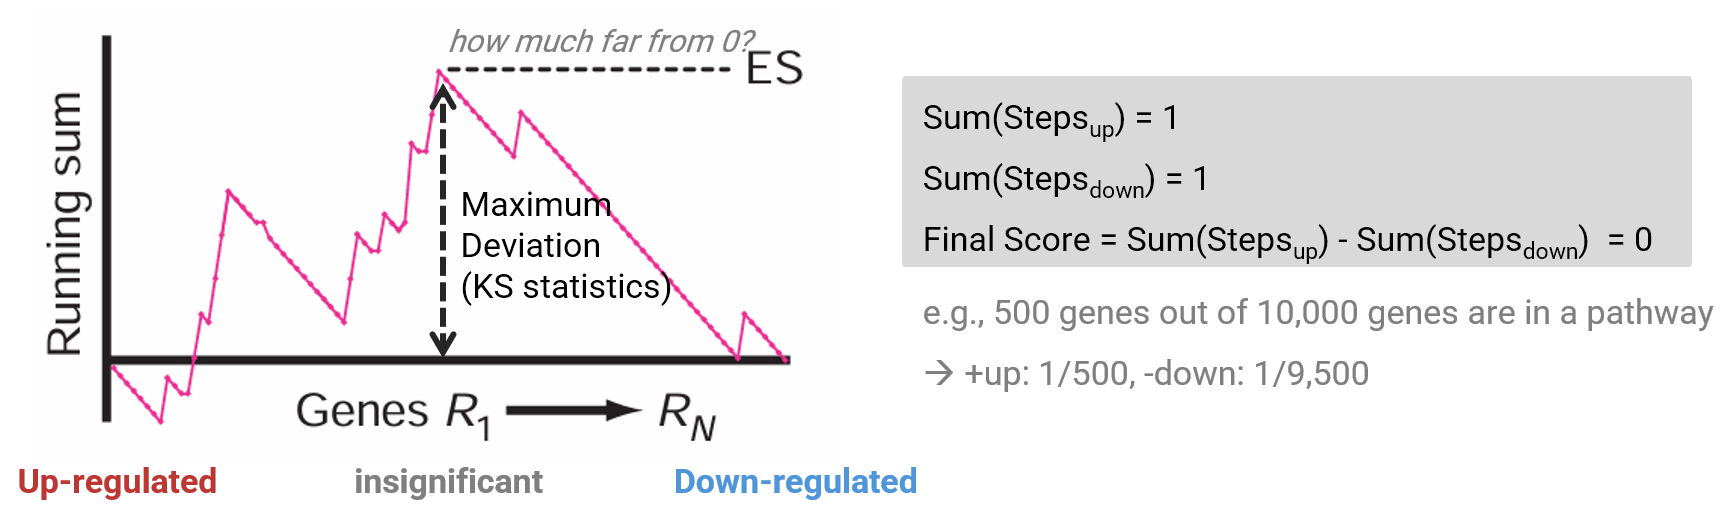
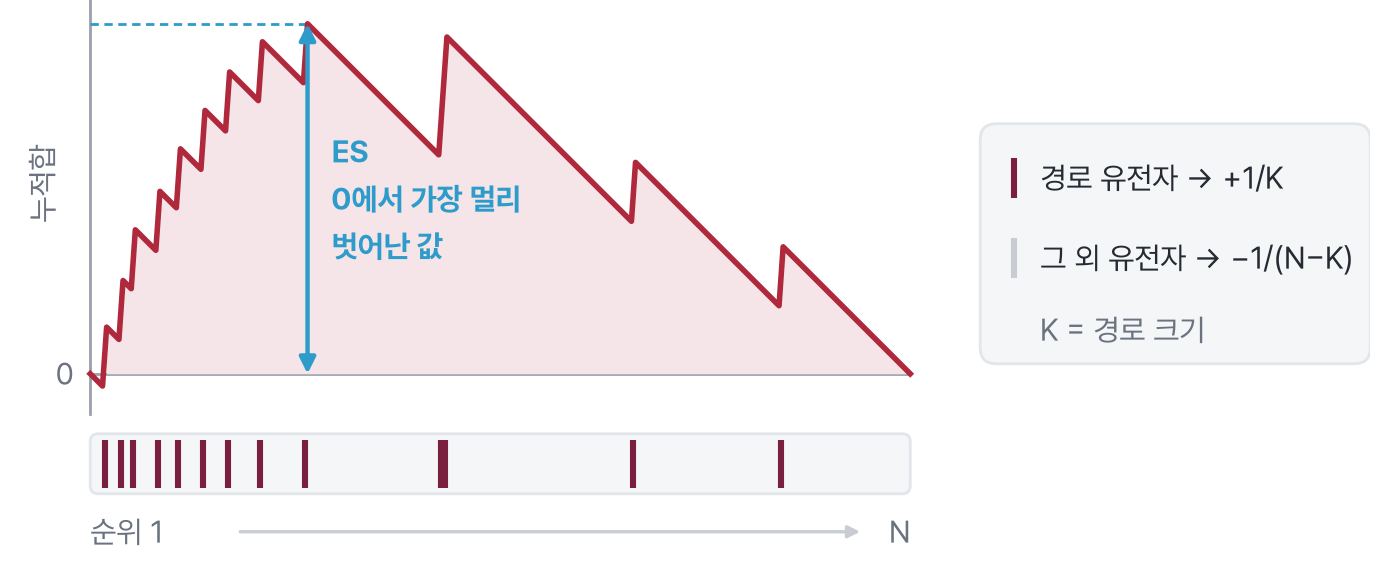
figures W10: redraw ES, ES patterns, permutation (KO/EN); add threshold figure; fix double-slash paths

diff --git a/scripts/figs/W10_permutation.py b/scripts/figs/W10_permutation.py
@@ -1,0 +1,56 @@
+# W10 §2-3) 순열 검정: 실제 라벨로 ES 계산 → 라벨을 1,000번 섞어 무작위 ES 1,000개(귀무분포) → 관측 ES 위치 확인
+# 원본: assets/img/part3/W10_permutation.png (외부 그림 조합) → 다시 그림. 히스토그램은 모의실험.
+from medfig import *
+
+L = {
+    "ko": dict(r1="① 실제 라벨로 계산", r2="② 라벨을 1,000번 섞어 계산", obs="관측 ES",
+               rnd="무작위 ES\n1,000개", null="귀무분포", x="ES", y="횟수"),
+    "en": dict(r1="① ES from the real labels", r2="② Shuffle labels 1,000 times", obs="observed ES",
+               rnd="1,000\nrandom ES", null="null distribution", x="ES", y="count"),
+}
+GA, GB = mix(TEXT2, 0.8), mix(TEXT2, 0.22)        # 시료 그룹 A / B (중립색)
+rng = np.random.default_rng(4)
+null = rng.normal(0, 1, 1000)                     # 모의실험: 무작위 ES 1,000개
+OBS = 3.0
+
+
+def samples(ax, x, y, labs, s=0.27, g=0.05, z=3):
+    for i, l in enumerate(labs):
+        c = GA if l == "A" else GB
+        box(ax, x + i * (s + g), y, s, s, fc=c, ec="white", lw=1, r=0.04, z=z)
+        ax.text(x + i * (s + g) + s / 2, y + s / 2, l, ha="center", va="center", fontsize=11,
+                fontweight="bold", color=on(c), zorder=z + 1)
+
+
+def draw(t):
+    fig, ax = new(6.9, 3.1)
+    # ① 실제 라벨
+    label(ax, 0.05, 2.9, t["r1"], fs=12, w="bold", ha="left")
+    samples(ax, 0.1, 2.3, list("AAABBB"))
+    arrow(ax, 2.1, 2.435, 2.45, 2.435, color="#9AA1AB", lw=1.4, ms=10)
+    pill(ax, 2.5, 2.435, t["obs"], fc=ACCENT, tc=ON_ACCENT, fs=11.5, h=0.34, ha="left")
+    # ② 섞은 라벨 (겹친 카드 3장)
+    label(ax, 0.05, 1.62, t["r2"], fs=12, w="bold", ha="left")
+    for k, off in enumerate([0.24, 0.12, 0.0]):
+        labs = list(rng.permutation(list("AAABBB")))
+        box(ax, 0.04 + off, 0.5 + off, 2.0, 0.42, fc="white", ec=LINE, r=0.06, z=3 + 3 * k)
+        samples(ax, 0.1 + off, 0.575 + off, labs, z=4 + 3 * k)
+    arrow(ax, 2.38, 0.85, 2.73, 0.85, color="#9AA1AB", lw=1.4, ms=10)
+    label(ax, 2.8, 0.85, t["rnd"], fs=11.5, ha="left", linespacing=1.3)
+
+    # 귀무분포 히스토그램
+    h = fig.add_axes([3.95 / 6.9, 0.55 / 3.1, 2.6 / 6.9, 2.2 / 3.1])
+    n, _, _ = h.hist(null, bins=np.linspace(-3.6, 3.6, 25), color=mix(TEXT2, 0.35), edgecolor="white", lw=0.6)
+    h.set_xlim(-3.8, 3.9); h.set_ylim(0, n.max() * 1.35)
+    h.set_xticks([0]); h.set_yticks([]); h.tick_params(labelsize=11)
+    h.set_xlabel(t["x"], fontsize=11); h.set_ylabel(t["y"], fontsize=11)
+    h.text(-3.6, n.max() * 1.22, t["null"], fontsize=11, color=TEXT2, va="center")
+    h.annotate("", xy=(OBS, 0), xytext=(OBS, n.max() * 0.62),
+               arrowprops=dict(arrowstyle="-|>", color=ACCENT_INK, lw=1.8))
+    h.text(OBS, n.max() * 0.68, t["obs"], ha="center", va="bottom", fontsize=11.5, fontweight="bold",
+           color=ACCENT_INK)
+    return fig
+
+
+for lang, suffix in [("ko", ""), ("en", "_en")]:
+    save(draw(L[lang]), f"../../assets/img/part3/W10_permutation{suffix}.png")

diff --git a/scripts/figs/W10_ES.py b/scripts/figs/W10_ES.py
@@ -1,0 +1,57 @@
+# W10 §2-2) ES 계산: 순위를 따라 걸으며 경로 유전자면 +1/K, 아니면 −1/(N−K); ES = 0에서 가장 멀리 벗어난 값
+# 원본: assets/img/part3/W10_ES.png (외부 그림 + 예시 숫자) → 다시 그림. 본문에 없는 예시 숫자(500/10,000)는 뺌. 설명용 가상 자료.
+from medfig import *
+
+L = {
+    "ko": dict(rs="누적합", r1="순위 1", rN="N", hit="경로 유전자 → +1/K", miss="그 외 유전자 → −1/(N−K)",
+               es="ES\n0에서 가장 멀리\n벗어난 값", k="K = 경로 크기"),
+    "en": dict(rs="running sum", r1="rank 1", rN="N", hit="pathway gene → +1/K", miss="other gene → −1/(N−K)",
+               es="ES\nlargest distance\nfrom zero", k="K = pathway size"),
+}
+GENE, CURVE = CAT[2], CAT[0]     # W10_threshold와 같은 색
+N = 200
+rng = np.random.default_rng(11)
+hits = np.sort(np.r_[[3, 7, 10, 16, 21, 27, 33, 41, 52], rng.choice(np.arange(70, 195), 4, replace=False)])
+K = len(hits)
+step = np.where(np.isin(np.arange(N), hits), 1 / K, -1 / (N - K))
+rs = np.r_[0, np.cumsum(step)]
+
+
+def draw(t):
+    fig, ax = new(6.9, 3.0)
+    X0, W = 0.5, 4.1
+    xs = X0 + W * np.arange(N + 1) / N
+    base, sc = 0.95, 1.75 / rs.max()
+    # 축과 곡선
+    ax.plot([X0, X0], [0.75, 2.85], color="#9AA1AB", lw=1)
+    ax.plot([X0, X0 + W], [base, base], color="#9AA1AB", lw=1)
+    ax.fill_between(xs, base, base + rs * sc, where=rs > 0, color=mix(CURVE, 0.12), lw=0, zorder=2)
+    ax.plot(xs, base + rs * sc, color=CURVE, lw=2, zorder=3)
+    label(ax, X0 - 0.24, base + 0.95, t["rs"], c=TEXT2, rotation=90)
+    label(ax, X0 - 0.08, base, "0", c=TEXT2, ha="right")
+    # 경로 유전자 띠
+    box(ax, X0, 0.35, W, 0.3, fc=FAINT, ec=LINE, r=0.04)
+    ax.vlines([X0 + W * (h + 0.5) / N for h in hits], 0.38, 0.62, color=GENE, lw=2.2, zorder=4)
+    label(ax, X0, 0.16, t["r1"], c=TEXT2, ha="left")
+    label(ax, X0 + W, 0.16, t["rN"], c=TEXT2, ha="right")
+    arrow(ax, X0 + 0.75, 0.16, X0 + W - 0.25, 0.16, color="#C9CDD3", lw=1.2, ms=9)
+    # ES
+    k = rs.argmax(); xk = xs[k]; yk = base + rs[k] * sc
+    ax.plot([X0, xk], [yk, yk], color=ACCENT_INK, lw=1, ls=(0, (3, 2)), zorder=2)
+    ax.annotate("", xy=(xk, yk), xytext=(xk, base), arrowprops=dict(arrowstyle="<|-|>", color=ACCENT_INK,
+                lw=1.6, shrinkA=0, shrinkB=0, mutation_scale=12), zorder=5)
+    label(ax, xk + 0.12, base + rs[k] * sc / 2, t["es"], fs=11, c=ACCENT_INK, ha="left", linespacing=1.3)
+    ax.texts[-1].set_fontweight("bold")
+    # 규칙
+    x1 = 4.95
+    box(ax, x1, 1.0, 1.95, 1.2, fc=FAINT, ec=LINE)
+    ax.vlines(x1 + 0.17, 1.83, 2.03, color=GENE, lw=2.2)
+    label(ax, x1 + 0.3, 1.93, t["hit"], ha="left")
+    ax.vlines(x1 + 0.17, 1.43, 1.63, color="#C9CDD3", lw=2.2)
+    label(ax, x1 + 0.3, 1.53, t["miss"], ha="left")
+    label(ax, x1 + 0.3, 1.17, t["k"], c=TEXT2, ha="left")
+    return fig
+
+
+for lang, suffix in [("ko", ""), ("en", "_en")]:
+    save(draw(L[lang]), f"../../assets/img/part3/W10_ES{suffix}.png")

diff --git a/scripts/figs/W10_pattern.py b/scripts/figs/W10_pattern.py
@@ -1,0 +1,45 @@
+# W10 §2-2) ES 패턴 세 가지: 발현 증가 경로(위쪽에서 정점) / 무작위(0 근처 진동) / 발현 감소 경로(아래쪽에서 정점)
+# 원본: assets/img/part3/W10_pattern.png (세로 3단 그래프) → 다시 그림. 설명용 가상 자료.
+from medfig import *
+
+L = {
+    "ko": dict(p=["① 발현이 증가한 경로", "② 무작위 (농축 없음)", "③ 발현이 감소한 경로"],
+               n=["위쪽에서 정점", "0 근처에서 진동", "아래쪽에서 정점"], r1="1", rN="N"),
+    "en": dict(p=["① Up-regulated", "② Random", "③ Down-regulated"],
+               n=["peak near the top", "fluctuates around zero", "peak near the bottom"], r1="1", rN="N"),
+}
+GENE = CAT[2]                                    # W10_threshold · W10_ES와 같은 색
+COL = [CAT[0], TEXT2, CAT[1]]                    # 상향 / 무작위 / 하향 (W10_threshold와 같은 색)
+N, K = 200, 20
+rng = np.random.default_rng(5)
+sets = [np.sort(np.r_[rng.choice(np.arange(0, 50), 15, replace=False), rng.choice(np.arange(50, 200), 5, replace=False)]),
+        np.sort(rng.choice(np.arange(N), K, replace=False)),
+        np.sort(np.r_[rng.choice(np.arange(0, 150), 5, replace=False), rng.choice(np.arange(150, 200), 15, replace=False)])]
+
+
+def walk(h):
+    step = np.where(np.isin(np.arange(N), h), 1 / K, -1 / (N - K))
+    return np.r_[0, np.cumsum(step)]
+
+
+def draw(t):
+    fig, ax = new(6.9, 2.9)
+    sc = 0.72 / max(abs(walk(s)).max() for s in sets)
+    for j, (h, c) in enumerate(zip(sets, COL)):
+        X0, W = 0.05 + j * 2.32, 2.1
+        rs = walk(h); xs = X0 + W * np.arange(N + 1) / N
+        base = 1.55
+        label(ax, X0, 2.72, t["p"][j], fs=12, w="bold", ha="left")
+        ax.plot([X0, X0 + W], [base, base], color="#9AA1AB", lw=1, zorder=2)
+        ax.fill_between(xs, base, base + rs * sc, color=mix(c, 0.14), lw=0, zorder=1)
+        ax.plot(xs, base + rs * sc, color=c, lw=1.8, zorder=3)
+        box(ax, X0, 0.5, W, 0.26, fc=FAINT, ec=LINE, r=0.04)
+        ax.vlines([X0 + W * (i + 0.5) / N for i in h], 0.53, 0.73, color=GENE, lw=1.2, zorder=4)
+        label(ax, X0, 0.36, t["r1"], fs=11, c=TEXT2, ha="left")
+        label(ax, X0 + W, 0.36, t["rN"], fs=11, c=TEXT2, ha="right")
+        label(ax, X0 + W / 2, 0.08, t["n"][j], fs=11.5, c=shade(c, 0.15) if j != 1 else TEXT2, w="semibold")
+    return fig
+
+
+for lang, suffix in [("ko", ""), ("en", "_en")]:
+    save(draw(L[lang]), f"../../assets/img/part3/W10_pattern{suffix}.png")
